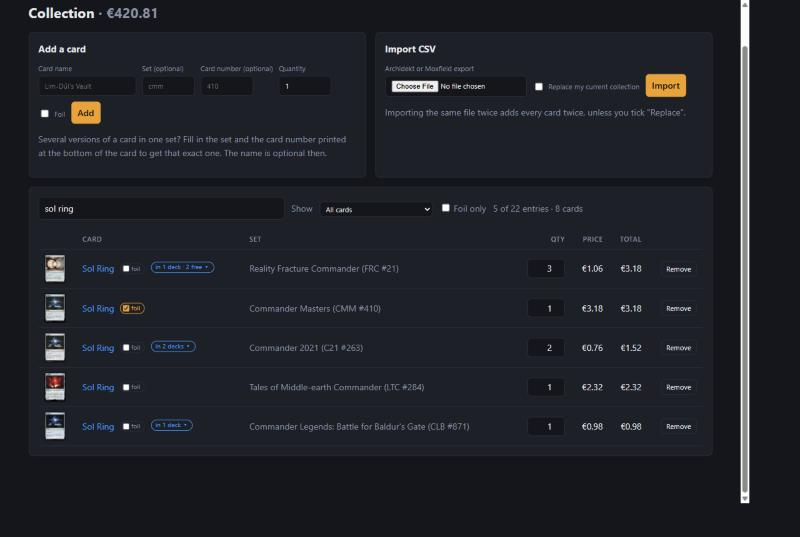
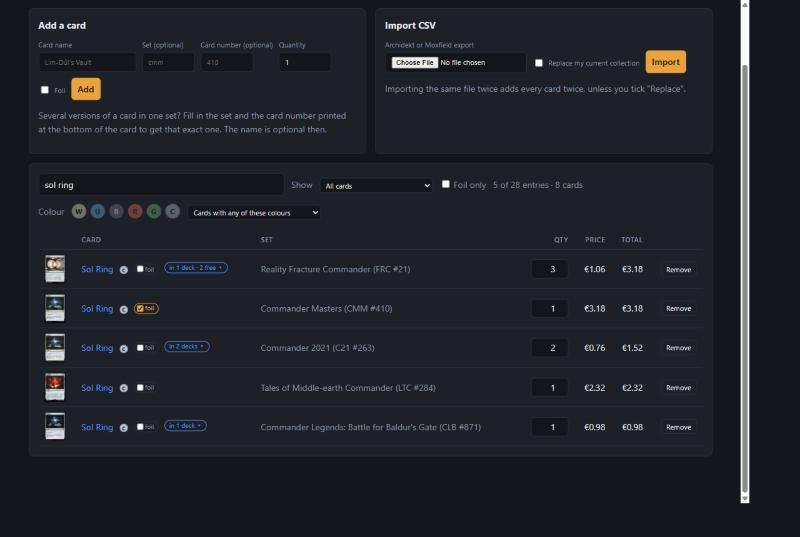
Collection: filter on colour
- Cards keep their colour identity from Scryfall; cards stored earlier get
  it once when the app starts, and with the daily price update.
- Colour buttons on the collection (white, blue, black, red, green,
  colourless): cards with any of the colours, cards that fit a deck of
  those colours, or cards with exactly those colours.
- Every card shows its colours.
- The API takes ?colors= and ?color_match=.
- README screenshots updated.

diff --git a/app/templates/collection.html b/app/templates/collection.html
@@ -48,6 +48,23 @@
     <label class="check muted"><input id="collection-foil" type="checkbox">&nbsp;Foil only</label>
     <span id="collection-count" class="muted"></span>
   </div>
+  <div class="toolbar search-bar color-bar">
+    <span class="muted">Colour</span>
+    <span id="collection-colors" class="color-filter" role="group" aria-label="Filter on colour">
+      {% for letter, label in [("W", "White"), ("U", "Blue"), ("B", "Black"), ("R", "Red"), ("G", "Green"), ("C", "Colourless")] %}
+      <button type="button" class="pip pip-{{ letter }}" data-color="{{ letter }}" aria-pressed="false" title="{{ label }}">{{ letter }}</button>
+      {% endfor %}
+    </span>
+    <select id="collection-color-mode" aria-label="How the chosen colours must match">
+      <option value="any">Cards with any of these colours</option>
+      <option value="within">Cards that fit a deck of these colours</option>
+      <option value="exact">Cards with exactly these colours</option>
+    </select>
+    <button type="button" class="link" id="collection-colors-reset" hidden>Clear colours</button>
+    {% if rows | selectattr("card.colors", "none") | list %}
+    <span class="muted">The colours of some cards are still being fetched; reload in a minute.</span>
+    {% endif %}
+  </div>
   <p id="collection-empty" class="muted" hidden>No cards match your search.</p>
   <table id="collection-table">
     <tr>
@@ -58,10 +75,13 @@
     {% set used = usage.get(row.entry.id, []) %}
     {% set in_decks = used | sum(attribute=1) %}
     {% set needs = wanted.get(row.entry.id, []) %}
-    <tr data-search="{{ row.card.name }} {{ row.card.set_name }} {{ row.card.set_code }} #{{ row.card.collector_number or '' }}{% for deck, count in used %} {{ deck.name }}{% endfor %}{% for deck, count in needs %} {{ deck.name }}{% endfor %}" data-foil="{{ 1 if row.entry.is_foil else 0 }}" data-qty="{{ row.entry.quantity }}" data-used="{{ in_decks }}" data-wanted="{{ needs | length }}">
+    <tr data-search="{{ row.card.name }} {{ row.card.set_name }} {{ row.card.set_code }} #{{ row.card.collector_number or '' }}{% for deck, count in used %} {{ deck.name }}{% endfor %}{% for deck, count in needs %} {{ deck.name }}{% endfor %}" data-foil="{{ 1 if row.entry.is_foil else 0 }}" data-qty="{{ row.entry.quantity }}" data-used="{{ in_decks }}" data-wanted="{{ needs | length }}" data-colors="{{ '?' if row.card.colors is none else row.card.colors }}">
       <td>{% if row.card.image_url %}<img class="thumb" src="{{ row.card.image_url }}" alt="" loading="lazy">{% endif %}</td>
       <td>
         <a href="/cards/{{ row.card.id }}">{{ row.card.name }}</a>
+        {% if row.card.colors is not none %}
+        <span class="pips" title="Colour identity">{% for letter in row.card.colors or "C" %}<span class="pip pip-{{ letter }}">{{ letter }}</span>{% endfor %}</span>
+        {% endif %}
         <label class="foil-toggle {{ 'on' if row.entry.is_foil }}" title="Tick if your copies of this card are foil">
           <input type="checkbox" class="foil" data-entry="{{ row.entry.id }}" {{ 'checked' if row.entry.is_foil }}
                  aria-label="{{ row.card.name }} is foil">foil
@@ -133,13 +153,36 @@
       quantity: Number(row.dataset.qty),
       used: Number(row.dataset.used),  // copies that are set aside for a saved deck
       wanted: Number(row.dataset.wanted),  // decks that miss this card while a copy is free
+      colors: row.dataset.colors === "?" ? null : new Set(row.dataset.colors),  // colour identity; null: not known yet
     }));
+
+    // Colour filter: the buttons that are pressed, and how they must match.
+    const colorButtons = [...document.querySelectorAll("#collection-colors button")];
+    const colorMode = document.getElementById("collection-color-mode");
+    const colorReset = document.getElementById("collection-colors-reset");
+    const chosenColors = () => colorButtons.filter((b) => b.getAttribute("aria-pressed") === "true").map((b) => b.dataset.color);
+    function colorMatch(colors, chosen) {
+      if (chosen.length === 0) return true;
+      if (colors === null) return false;
+      const want = chosen.filter((c) => c !== "C");
+      if (colorMode.value === "within") return [...colors].every((c) => want.includes(c));
+      if (colorMode.value === "exact") return colors.size === want.length && want.every((c) => colors.has(c));
+      return want.some((c) => colors.has(c)) || (colors.size === 0 && chosen.includes("C"));
+    }
+    try {
+      const saved = JSON.parse(localStorage.getItem("collection-colors") || "{}");
+      for (const button of colorButtons) button.setAttribute("aria-pressed", String((saved.colors || []).includes(button.dataset.color)));
+      if (saved.mode) colorMode.value = saved.mode;
+      if (!colorMode.value) colorMode.value = "any";
+    } catch (error) {}
     const show = document.getElementById("collection-show");
     try { show.value = localStorage.getItem("collection-show") || "all"; } catch (error) {}
     if (!show.value) show.value = "all";
 
     function filter() {
       const words = fold(search.value).split(/\s+/).filter(Boolean);
+      const chosen = chosenColors();
+      colorReset.hidden = chosen.length === 0;
       let shown = 0;
       let cards = 0;
       for (const item of rows) {
@@ -150,14 +193,15 @@
           : show.value === "used" ? Math.min(item.used, item.quantity)
           : show.value === "wanted" ? (item.wanted > 0 ? free : 0)
           : item.quantity;
-        const match = copies > 0 && (!foilOnly.checked || item.foil) && words.every((word) => item.text.includes(word));
+        const match = copies > 0 && (!foilOnly.checked || item.foil) && colorMatch(item.colors, chosen)
+          && words.every((word) => item.text.includes(word));
         item.row.hidden = !match;
         if (match) {
           shown += 1;
           cards += copies;
         }
       }
-      const filtered = words.length > 0 || foilOnly.checked || show.value !== "all";
+      const filtered = words.length > 0 || foilOnly.checked || show.value !== "all" || chosen.length > 0;
       const what = { free: "free cards", used: "cards in decks", wanted: "free cards a deck needs" }[show.value] || "cards";
       count.textContent = filtered ? `${shown} of ${rows.length} entries · ${cards} ${what}` : `${rows.length} entries`;
       empty.hidden = shown > 0;
@@ -170,6 +214,23 @@
 
     search.addEventListener("input", filter);
     foilOnly.addEventListener("change", filter);
+    function colorsChanged() {
+      try {
+        localStorage.setItem("collection-colors", JSON.stringify({ colors: chosenColors(), mode: colorMode.value }));
+      } catch (error) {}
+      filter();
+    }
+    for (const button of colorButtons) {
+      button.addEventListener("click", () => {
+        button.setAttribute("aria-pressed", String(button.getAttribute("aria-pressed") !== "true"));
+        colorsChanged();
+      });
+    }
+    colorMode.addEventListener("change", colorsChanged);
+    colorReset.addEventListener("click", () => {
+      for (const button of colorButtons) button.setAttribute("aria-pressed", "false");
+      colorsChanged();
+    });
     show.addEventListener("change", () => {
       try { localStorage.setItem("collection-show", show.value); } catch (error) {}
       filter();

diff --git a/app/static/style.css b/app/static/style.css
@@ -121,6 +121,21 @@ select { font: inherit; font-size: 12px; color: var(--text); background: var(--b
 
 .search-bar { justify-content: flex-start; }
 .search-bar input[type="search"] { flex: 1 1 260px; max-width: 420px; }
+.color-bar { margin-top: -4px; }
+.color-filter { display: inline-flex; gap: 6px; }
+/* Mana colours: a round pip per colour, on a card row and as a filter button. */
+.pip { display: inline-flex; align-items: center; justify-content: center; width: 15px; height: 15px; padding: 0;
+  border: 1px solid rgba(0, 0, 0, .45); border-radius: 50%; font-size: 9px; font-weight: 700; line-height: 1; color: #1a1a1a; }
+.pip-W { background: #f3edd3; }
+.pip-U { background: #6fb1e6; }
+.pip-B { background: #7d7387; color: #fff; }
+.pip-R { background: #e8755d; }
+.pip-G { background: #6fbf85; }
+.pip-C { background: #b9bec8; }
+.pips { display: inline-flex; gap: 2px; margin-left: 6px; vertical-align: middle; }
+button.pip { width: 26px; height: 26px; font-size: 12px; cursor: pointer; opacity: .4; }
+button.pip:hover, button.pip:focus-visible { opacity: .75; }
+button.pip[aria-pressed="true"] { opacity: 1; box-shadow: 0 0 0 2px var(--accent); }
 tr[hidden] { display: none; }
 
 input.qty { width: 64px; padding: 4px 6px; text-align: right; }

diff --git a/tests/test_api.py b/tests/test_api.py
@@ -412,3 +412,37 @@ def test_collection_shows_which_decks_use_a_card(client):
     assert "needed by 1 deck</summary>" in page and 'data-wanted="1"' in page and page.count("wanted-by") == 1
     client.put(f"/api/decks/{second['id']}/cards/{entry_id}/assigned", json={"assigned": True})
     assert client.get("/api/collection").json()["items"][1]["wanted_by"] == []
+
+
+def test_filter_collection_on_colour(client):
+    for name in ("Sol Ring", "Lim-Dûl's Vault", "Fire // Ice", "Black Lotus"):
+        client.post("/api/collection", json={"name": name})
+
+    def names(**params):
+        return [i["card"]["name"] for i in client.get("/api/collection", params=params).json()["items"]]
+
+    items = {i["card"]["name"]: i["card"]["colors"] for i in client.get("/api/collection").json()["items"]}
+    assert items == {"Black Lotus": None, "Fire // Ice": "UR", "Lim-Dûl's Vault": "UB", "Sol Ring": ""}  # WUBRG order
+    assert names(colors="U") == ["Fire // Ice", "Lim-Dûl's Vault"]
+    assert names(colors="r") == ["Fire // Ice"]
+    assert names(colors="C") == ["Sol Ring"]
+    assert names(colors="UB", color_match="within") == ["Lim-Dûl's Vault", "Sol Ring"]  # colourless fits any deck
+    assert names(colors="UR", color_match="exact") == ["Fire // Ice"]
+    assert names(colors="C", color_match="exact") == ["Sol Ring"]
+    assert client.get("/api/collection", params={"colors": "U", "color_match": "nope"}).status_code == 422
+
+    page = client.get("/collection").text
+    assert 'data-colors="UB"' in page and 'data-colors=""' in page and 'data-colors="?"' in page
+    assert 'id="collection-colors"' in page and "still being fetched" in page
+
+
+async def test_colours_are_filled_in_for_cards_stored_earlier(session, scryfall, fake_scryfall):
+    from app.jobs import fill_missing_colors
+    from app.models import Card
+
+    session.add(Card(name="Fire // Ice", set_code="mh2", set_name="Set MH2", scryfall_id="id-fire"))
+    session.add(Card(name="Sol Ring", set_code="cmm", set_name="Set CMM", scryfall_id="id-sol", colors=""))
+    session.commit()
+    assert await fill_missing_colors(session, scryfall) == 1
+    assert session.exec(select(Card).where(Card.scryfall_id == "id-fire")).one().colors == "UR"
+    assert await fill_missing_colors(session, scryfall) == 0

diff --git a/app/jobs.py b/app/jobs.py
@@ -45,10 +45,30 @@ async def update_collection_prices(session: Session, scryfall: ScryfallClient) -
             logger.warning("Scryfall no longer knows %s (%s)", card.name, card.scryfall_id)
             continue
         record_scryfall_price(session, card.id, data)
+        if data.colors is not None:
+            card.colors = data.colors
         updated += 1
     record_daily_total(session)
     session.commit()
     return updated
+
+
+async def fill_missing_colors(session: Session, scryfall: ScryfallClient) -> int:
+    """Fetch the colours of cards that were stored before colours were kept. Returns how many were filled in."""
+    cards = list(session.exec(select(Card).where(Card.colors == None)))  # noqa: E711
+    if not cards:
+        return 0
+    found, _ = await scryfall.get_collection([{"id": card.scryfall_id} for card in cards])
+    by_id = {data.scryfall_id: data for data in found}
+    filled = 0
+    for card in cards:
+        data = by_id.get(card.scryfall_id)
+        if data is not None and data.colors is not None:
+            card.colors = data.colors
+            session.add(card)
+            filled += 1
+    session.commit()
+    return filled
 
 
 async def check_wishlist(
@@ -129,6 +149,16 @@ async def run_collection_update() -> None:
         logger.exception("Price update failed")
 
 
+async def run_fill_colors() -> None:
+    try:
+        with Session(engine) as session:
+            filled = await fill_missing_colors(session, deps.get_scryfall())
+        if filled:
+            logger.info("Colours filled in for %s cards", filled)
+    except Exception:
+        logger.exception("Filling in colours failed")
+
+
 async def run_wishlist_check() -> None:
     try:
         with Session(engine) as session:
@@ -163,5 +193,6 @@ def start_scheduler() -> AsyncIOScheduler:
     scheduler.add_job(run_wishlist_check, "interval", hours=settings.wishlist_check_hours, id="wishlist-check")
     if settings.deck_sync_hours > 0:
         scheduler.add_job(run_deck_sync, "interval", hours=settings.deck_sync_hours, id="deck-sync")
+    scheduler.add_job(run_fill_colors, "date", id="card-colors")  # once, right after starting
     scheduler.start()
     return scheduler

diff --git a/app/services/collection.py b/app/services/collection.py
@@ -121,6 +121,33 @@ def _fold(text: str) -> str:
     return "".join(ch for ch in decomposed if not unicodedata.combining(ch)).casefold()
 
 
+COLOR_MATCHES = ("any", "within", "exact")
+
+
+def color_match(colors: str | None, wanted: str, mode: str = "any") -> bool:
+    """Does a card with colour identity `colors` match the chosen colours (letters from WUBRG, C = colourless)?
+
+    any: the card has one of the colours (a colourless card only when C is chosen);
+    within: the card fits in a deck of these colours, so colourless cards always do;
+    exact: the card has exactly these colours."""
+    if colors is None:  # colours not fetched yet
+        return False
+    have = set(colors)
+    chosen = set(wanted.upper()) & set("WUBRGC")
+    want = chosen - {"C"}
+    if mode == "within":
+        return have <= want
+    if mode == "exact":
+        return have == want
+    return bool(have & want) or (not have and "C" in chosen)
+
+
+def filter_colors(rows: list[CollectionRow], wanted: str | None, mode: str = "any") -> list[CollectionRow]:
+    if not wanted:
+        return rows
+    return [row for row in rows if color_match(row.card.colors, wanted, mode)]
+
+
 def search_rows(rows: list[CollectionRow], query: str | None) -> list[CollectionRow]:
     """Rows whose card name, set name or set code contain every word of `query`."""
     words = _fold(query or "").split()

diff --git a/app/routers/api.py b/app/routers/api.py
@@ -1,6 +1,7 @@
 """JSON API."""
 
 from dataclasses import dataclass
+from typing import Literal
 
 from fastapi import APIRouter, BackgroundTasks, Depends, File, HTTPException, UploadFile
 from sqlmodel import Session
@@ -58,11 +59,19 @@ def summary(session: Session = Depends(get_session)):
 
 
 @router.get("/collection", response_model=CollectionOut)
-def list_collection(q: str | None = None, in_deck: bool | None = None, session: Session = Depends(get_session)):
+def list_collection(
+    q: str | None = None,
+    in_deck: bool | None = None,
+    colors: str | None = None,
+    color_match: Literal["any", "within", "exact"] = "any",
+    session: Session = Depends(get_session),
+):
     """The collection; `q` filters on card name, set name or set code (every word must match).
     `in_deck=false` keeps the entries with a copy that is in no saved deck, `in_deck=true` the
-    entries a saved deck uses."""
+    entries a saved deck uses. `colors` filters on colour identity (letters from WUBRG, C for
+    colourless): cards with any of them, cards that fit `within` them, or cards with `exact`ly them."""
     rows = collection.search_rows(collection.collection_rows(session), q)
+    rows = collection.filter_colors(rows, colors, color_match)
     usage = decks.deck_usage(session)
     wanted = decks.deck_wanted(session)
     items = []

diff --git a/app/scryfall.py b/app/scryfall.py
@@ -79,6 +79,8 @@ class ScryfallCard:
     # Filled in when this printing has no price and the price of another printing is used instead.
     eur_from_set: str | None = None
     eur_foil_from_set: str | None = None
+    # Colour identity as letters in WUBRG order; "" is colourless.
+    colors: str | None = None
 
     @classmethod
     def from_json(cls, data: dict) -> "ScryfallCard":
@@ -87,6 +89,7 @@ class ScryfallCard:
             (f["image_uris"] for f in data.get("card_faces") or [] if f.get("image_uris")), {}
         )
         prices = data.get("prices") or {}
+        identity = data.get("color_identity")
         return cls(
             scryfall_id=data["id"],
             name=data["name"],
@@ -97,6 +100,7 @@ class ScryfallCard:
             price_eur=_to_float(prices.get("eur")),
             price_eur_foil=_to_float(prices.get("eur_foil")),
             cardmarket_url=(data.get("purchase_uris") or {}).get("cardmarket"),
+            colors=None if identity is None else "".join(c for c in "WUBRG" if c in identity),
         )
 
 

diff --git a/tests/conftest.py b/tests/conftest.py
@@ -31,11 +31,11 @@ def scryfall_json(name, scryfall_id, set_code="tst", eur="1.00", eur_foil=None, 
 
 
 CARDS = [
-    scryfall_json("Sol Ring", "id-sol", "cmm", eur="1.50", eur_foil="4.00"),
+    scryfall_json("Sol Ring", "id-sol", "cmm", eur="1.50", eur_foil="4.00", color_identity=[]),
     scryfall_json("Sol Ring", "id-sol-lea", "lea", eur="900.00"),
     scryfall_json("Sol Ring", "id-sol-cmm-art", "cmm", eur="6.00", collector_number="410"),
-    scryfall_json("Lim-Dûl's Vault", "id-vault", "all", eur="12.34"),
-    scryfall_json("Fire // Ice", "id-fire", "mh2", eur="0.25", eur_foil="0.80"),
+    scryfall_json("Lim-Dûl's Vault", "id-vault", "all", eur="12.34", color_identity=["B", "U"]),
+    scryfall_json("Fire // Ice", "id-fire", "mh2", eur="0.25", eur_foil="0.80", color_identity=["R", "U"]),
     scryfall_json("Black Lotus", "id-lotus", "lea", eur=None),
 ]
 

diff --git a/app/models.py b/app/models.py
@@ -17,6 +17,8 @@ class Card(SQLModel, table=True):
     scryfall_id: str = Field(unique=True, index=True)
     collector_number: str | None = None
     image_url: str | None = None
+    # Colour identity as letters in WUBRG order; "" is colourless, None not fetched yet.
+    colors: str | None = None
 
 
 class CollectionEntry(SQLModel, table=True):

diff --git a/app/database.py b/app/database.py
@@ -26,6 +26,7 @@ def add_missing_columns(target=None) -> None:
     if target.dialect.name != "sqlite":
         return
     added = {
+        "card": {"colors": "VARCHAR"},
         "deck": {"bracket": "INTEGER", "archidekt_id": "INTEGER", "synced_at": "DATETIME"},
         "deckentry": {
             "unassigned": "BOOLEAN NOT NULL DEFAULT 0",

diff --git a/app/services/pricing.py b/app/services/pricing.py
@@ -21,6 +21,8 @@ def upsert_card(session: Session, data: ScryfallCard) -> Card:
     card.set_name = data.set_name
     card.collector_number = data.collector_number
     card.image_url = data.image_url
+    if data.colors is not None:
+        card.colors = data.colors
     session.add(card)
     session.flush()
     return card

diff --git a/app/schemas.py b/app/schemas.py
@@ -16,6 +16,8 @@ class CardOut(BaseModel):
     scryfall_id: str
     collector_number: str | None
     image_url: str | None
+    # Colour identity as letters in WUBRG order; "" is colourless, null not fetched yet.
+    colors: str | None = None
 
 
 class CollectionAdd(BaseModel):
